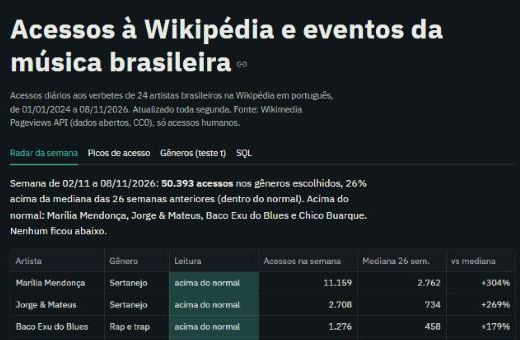
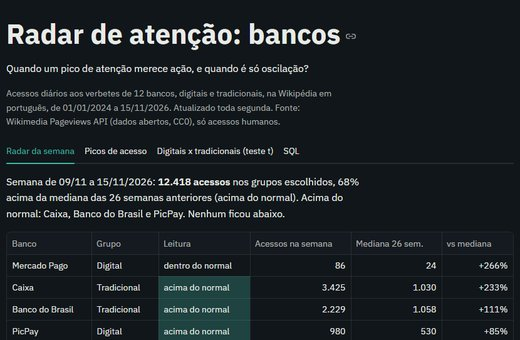
Projeto 1 vira o Radar de atenção: bancos
Bloco do site com o tema de bancos digitais e tradicionais, prints
novos e links para o app e o repositório renomeados.

diff --git a/index.html b/index.html
@@ -547,18 +547,18 @@ section[id] { scroll-margin-top: 72px; }
         </div>
       </article>
       <article class="projeto">
-        <a class="quadro" href="https://wikipedia-musica-brasileira.streamlit.app" aria-label="Abrir o painel Acessos à Wikipédia e eventos da música brasileira">
-          <picture><source media="(max-width: 520px)" srcset="assets/painel-celular.jpg" width="520" height="340"><img src="assets/painel.jpg" width="800" height="562" alt="Painel escuro com o resumo da semana e a tabela de 24 artistas, com os que ficaram acima do normal destacados" loading="lazy"></picture>
+        <a class="quadro" href="https://radar-atencao-bancos.streamlit.app" aria-label="Abrir o painel Radar de atenção: bancos">
+          <picture><source media="(max-width: 520px)" srcset="assets/painel-celular.jpg" width="520" height="340"><img src="assets/painel.jpg" width="800" height="562" alt="Painel escuro com o resumo da semana e a tabela de 12 bancos, com os que ficaram acima do normal destacados" loading="lazy"></picture>
         </a>
         <div class="texto">
-          <h3>Acessos à Wikipédia e eventos da música brasileira</h3>
-          <p class="comprova">A pergunta: quando um acontecimento aparece nos dados, e como separar isso da oscilação comum?</p>
-          <p>Acontecimentos do mundo real, como um aniversário ou a data de uma morte, aparecem nos acessos aos verbetes de 24 artistas brasileiros na Wikipédia. O painel separa esses picos da oscilação comum.</p>
-          <p>Uma faixa de normalidade por artista diz se a semana fugiu do padrão, um z-score robusto acha os dias atípicos e um teste t de Welch compara gêneros musicais. Os dados se atualizam sozinhos toda segunda.</p>
+          <h3>Radar de atenção: bancos</h3>
+          <p class="comprova">A pergunta: quando um pico de atenção merece ação, e quando é só oscilação?</p>
+          <p>O painel monitora os acessos aos verbetes de 12 bancos, 6 digitais e 6 tradicionais, na Wikipédia em português. Um dia de pico que não tira a semana do padrão costuma ser uma notícia que passa; uma semana inteira fora da faixa indica que a atenção mudou de patamar.</p>
+          <p>Uma faixa de normalidade por banco diz se a semana fugiu do padrão, um z-score robusto acha os dias atípicos e um teste t de Welch compara digitais e tradicionais. Os dados se atualizam sozinhos toda segunda.</p>
           <ul class="ferramentas" aria-label="Ferramentas do projeto"><li>Python</li><li>SQLite e SQL</li><li>pandas e SciPy</li><li>Streamlit</li><li>GitHub Actions</li><li>pytest</li></ul>
           <div class="acoes">
-            <a class="botao cheio" href="https://wikipedia-musica-brasileira.streamlit.app">Ver o painel</a>
-            <a class="botao vazio" href="https://github.com/lucastapajos-max/acessos-wikipedia-musica">Ver o código</a>
+            <a class="botao cheio" href="https://radar-atencao-bancos.streamlit.app">Ver o painel</a>
+            <a class="botao vazio" href="https://github.com/lucastapajos-max/radar-atencao-bancos">Ver o código</a>
           </div>
         </div>
       </article>
